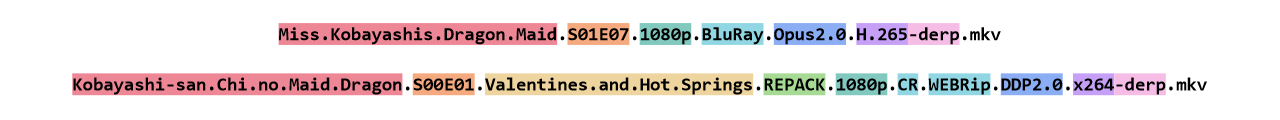
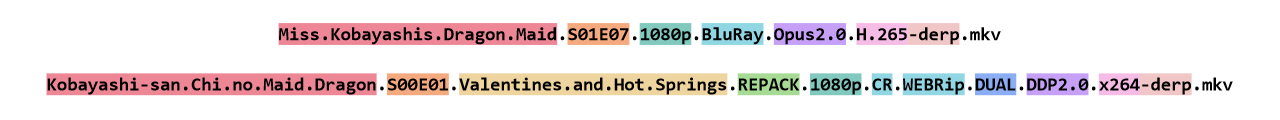
fix(naming): redesign fixes
- Changed good naming example example to use only recommended schemes
- Changed bad naming example image to include absolute numbering and missing series year
- Added dual audio marker to recommended scheme variant 2
- More descriptions
- Reduced number of example names in Nyaa

Changed region(s): [[0.0312, 0.6, 0.9688, 0.8], [0.5938, 0.175, 0.75, 0.375]]

diff --git a/docs/advanced/naming.md b/docs/advanced/naming.md
@@ -16,7 +16,7 @@ This page serves as a guide on the most optimal naming schemes that provide all 
 In general, a good file name should include:
 
 - The full **anime show/series** or **movie title**
-  - If there are multiple versions of the show (e.g. `Hunter x Hunter (1999)` vs. `Hunter x Hunter (2011)`), you must include the year within the title. *Note that you must include the year for all movies*
+  - If there are multiple versions of the series, you must include the year within the title (e.g. [Hunter x Hunter (1999)](https://thetvdb.com/series/hunter-x-hunter) vs. [Hunter x Hunter (2011)](https://thetvdb.com/series/hunter-x-hunter-2011)). *Note that you must include the year for all movies*
   - We recommend using names found in databases such as [TheTVDB](https://www.thetvdb.com) (TV series) and [The Movie Database (TMDB)](https://www.themoviedb.org/?language=en-US) (movies)
 - The **season/episode number** (for TV series)
   - For specials, use `S00EXX` for guaranteed automatic parsing and correct identification. *However, it is suggested to add an additional identifier such as including `OVA` or the episode title (i.e. `S00E01 - OVA Title`) to easily differentiate between episodes*
@@ -43,18 +43,21 @@ A bad file name often leaves out important information that may be useful to the
 These naming schemes are **bad** as they:
 
 Do not include the [type of release](/guides/quality/#types-of-releases) and [where it is sourced from](/guides/quality/#blu-ray-vs-web)
-:   - File 2 does not list the video codec/resolution, audio codec, "Blu-ray/WEB" source, dual audio, etc.
+:   - It can be harder to determine which release is the better one
+    - File 2 does not list the video codec/resolution, audio codec, "Blu-ray/WEB" source, dual audio, etc.
 
 May be too long in length
-:   - File 2 includes episode chapters in the file name, which results in a long file name
+:   - Many programs do not support file paths longer than 256 characters
+    - File 2 includes episode chapters in the file name, totaling 159 characters alone
 
-Use an invalid naming scheme
-:   - File 1 separates the season and episode number (`S2 - 08`). *As a result, some programs may incorrectly parse this as `S01E08`*
+Use an inefficient/invalid naming scheme
+:   - File 1 uses absolute numbering for episodes. *We recommend using the `SXXEXX` format instead*
     - File 3 uses brackets to hold the season and episode number (`[S02,E00]`). *As a result, some programs may incorrectly parse this as a release group*
 
-Alter or uses a condensed show title
-:   - File 3 uses the incorrect order for the show title (`From Me to You Kimi Ni Todoke` instead of `Kimi ni Todoke - From Me to You`)
-    - File 4 uses a condensed show title (`Masamune` instead of `Masamune-kun's Revenge` or `Masamune-kun no Revenge`)
+Alter or uses an incorrect title
+:   - Some programs may fetch incorrect title metadata
+    - File 3 uses the incorrect order for the show title (`From Me to You Kimi Ni Todoke` instead of `Kimi ni Todoke - From Me to You`)
+    - File 4 does not include the show year. *As a result, media servers may fetch incorrect metadata ([JoJo's Bizarre Adventure](https://thetvdb.com/series/jojos-bizarre-adventure) is detected instead of [JoJo's Bizarre Adventure (2012)](https://thetvdb.com/series/jojos-bizarre-adventure-2012))*
 
 Using good naming schemes, it could look like the following:
 
@@ -76,7 +79,7 @@ Spaces and special characters (i.e. apostrophes `'`, commas `,`) should be repla
 :   The full show/series or movie title. *We recommend using names found in databases such as [TheTVDB](https://www.thetvdb.com) (TV series) and [The Movie Database (TMDB)](https://www.themoviedb.org/?language=en-US) (movies). This can be in English or romanized Japanese*
 
     !!!warning
-    If there are multiple versions (e.g. `Hunter x Hunter (1999)` vs. `Hunter x Hunter (2011)`), you must include the year within the title. *For movies, this should always be included*
+    If there are multiple versions of the series, you must include the year within the title (e.g. [`Hunter.x.Hunter.1999`](https://thetvdb.com/series/hunter-x-hunter) vs. [`Hunter.x.Hunter.2011`](https://thetvdb.com/series/hunter-x-hunter-2011)). *For movies, this should always be included*
     !!!
 
 ![#f5a97f](https://placehold.co/14x14/f5a97f/f5a97f.png) Season/episode number
@@ -89,8 +92,8 @@ Spaces and special characters (i.e. apostrophes `'`, commas `,`) should be repla
 ![#eed49f](https://placehold.co/14x14/eed49f/eed49f.png) Episode title [!badge variant="success" text="Optional"]
 :   The title of the episode. *We recommend using names found in databases such as [TheTVDB](https://www.thetvdb.com) (TV series) and [The Movie Database (TMDB)](https://www.themoviedb.org/?language=en-US) (movies)*
 
-    !!!info
-    This should generally be skipped for long file names.
+    !!!warning
+    This should generally be skipped to avoid creating file paths larger than 256 characters, which may cause problems with various programs.
     !!!
 
 ![#a6da95](https://placehold.co/14x14/a6da95/a6da95.png) Version number [!badge variant="warning" text="Conditional"]
@@ -106,17 +109,24 @@ Spaces and special characters (i.e. apostrophes `'`, commas `,`) should be repla
     For `WEB` releases, you may also include the source tag (e.g. `AMZN` for Amazon, `DSNP` for Disney+, `NF` for Netflix)
     !!!
 
-![#8aadf4](https://placehold.co/14x14/8aadf4/8aadf4.png) Audio format(s)
+    !!!info
+    For Blu-ray/DVD remuxes, add `Remux` to the end (e.g. `BluRay.Remux` or `DVD.Remux`)
+    !!!
+
+![#8aadf4](https://placehold.co/14x14/8aadf4/8aadf4.png) Dual audio marker [!badge variant="warning" text="Conditional"]
+:   The marker for file using multiple audio languages/tracks
+
+![#c6a0f6](https://placehold.co/14x14/c6a0f6/c6a0f6.png) Audio format(s)
 :   The codec of the file's audio. *We recommend using [MediaInfo](https://mediaarea.net/MediaInfo) to find this information*
 
     !!!info
     If your file includes multiple audio tracks in different codecs, only list the default track's codec
     !!!
 
-![#c6a0f6](https://placehold.co/14x14/c6a0f6/c6a0f6.png) Video format
+![#f5bde6](https://placehold.co/14x14/f5bde6/f5bde6.png) Video format
 :   The codec of the file's video. *We recommend using [MediaInfo](https://mediaarea.net/MediaInfo) to find this information*
 
-![#f5bde6](https://placehold.co/14x14/f5bde6/f5bde6.png) Releaser
+![#f0c6c6](https://placehold.co/14x14/f0c6c6/f0c6c6.png) Releaser
 :   The name of the releaser or release group
 
 +++ :icon-file-code: Variant 2
@@ -130,7 +140,7 @@ Spaces and special characters (i.e. apostrophes `'`, commas `,`) should be repla
 :   The full show/series or movie title. *We recommend using names found in databases such as [TheTVDB](https://www.thetvdb.com) (TV series) and [The Movie Database (TMDB)](https://www.themoviedb.org/?language=en-US) (movies). This can be in English or romanized Japanese*
 
     !!!warning
-    If there are multiple versions (e.g. `Hunter x Hunter (1999)` vs. `Hunter x Hunter (2011)`), you must include the year within the title. *For movies, this should always be included*
+    If there are multiple versions of the series, you must include the year within the title (e.g. [`Hunter x Hunter (1999)`](https://thetvdb.com/series/hunter-x-hunter) vs. [`Hunter x Hunter (2011)`](https://thetvdb.com/series/hunter-x-hunter-2011)). *For movies, this should always be included*
     !!!
 
 ![#eed49f](https://placehold.co/14x14/eed49f/eed49f.png) Season/episode number
@@ -146,8 +156,8 @@ Spaces and special characters (i.e. apostrophes `'`, commas `,`) should be repla
 ![#81c8be](https://placehold.co/14x14/81c8be/81c8be.png) Episode title [!badge variant="success" text="Optional"]
 :   The title of the episode. *We recommend using names found in databases such as [TheTVDB](https://www.thetvdb.com) (TV series) and [The Movie Database (TMDB)](https://www.themoviedb.org/?language=en-US) (movies)*
 
-    !!!info
-    This should generally be skipped for long file names.
+    !!!warning
+    This should generally be skipped to avoid creating file paths larger than 256 characters, which may cause problems with various programs.
     !!!
 
 ![#91d7e3](https://placehold.co/14x14/91d7e3/91d7e3.png) Source type
@@ -183,46 +193,48 @@ Spaces and special characters (i.e. apostrophes `'`, commas `,`) should be repla
 In general, a good folder should:
 
 - List the **season number(s)** (for TV series)
-  - If you are including multiple seasons, these should be separated and named by season (e.g. `Season 1`, `Season 2`, ...)
-  - If a season is split into two cours but stored in a single season (e.g. [86: Eighty Six](https://thetvdb.com/series/eighty-six/seasons/official/1)), include the episode range after the season info (e.g. `86: Eighty Six - S01 (E01-E11)` and `86: Eighty Six - S01 (E12-E23)`)
+  - If you are organizing multiple seasons, these should be separated and named by season (e.g. `Season 1`, `Season 2`, ...)
+  - If a season is split into two cours but stored in a single season (e.g. [86: Eighty Six](https://thetvdb.com/series/eighty-six/seasons/official/1)), include the episode range after the season info (e.g. `86: Eighty Six - S01E01-E11)` and `86: Eighty Six - S01E12-E23)`)
 - Store **specials/OVA episodes** in a separate folder named `Specials`
 - Store **additional content** (creditless OPs/EDs, PVs) in a separate folder named `Extras`
+  - `Extras` is a catch-all folder that automation/media servers completely ignore
   - Do not use folders such as `NC`, `Creditless`, etc.
 - Include the **releaser/group tag**
 
 Examples:
 
 ```text
-Anime Name Season 2 (BD Remux 1080p H.264 FLAC) [Dual Audio] [Group]
-Anime Name (2022) S01 (BD 1080p HEVC Opus) [Dual Audio]-Group
+Anime Name (2022) S01 (BD 1080p HEVC Opus) [Dual Audio] [Group]
 Anime.Name.2022.S01.1080p.AMZN.WEB-DL.DDP2.0.H.264-Group
-Anime Name S02 E01-E24 (BD Remux 1080p x264 8-bit DTS-HD) [Dual-Audio] [Group]
-Anime Name S01 E25-E48 (BD Remux 1080p x264 8-bit DTS-HD) [Dual-Audio] [Group]
-Anime.Name.2022.S01.E01-E11.1080p.BluRay.FLAC2.0.H.265-Group
+Anime Name - S01E01-E24 (BD Remux 1080p x264 8-bit DTS-HD) [Dual Audio] [Group]
 Anime.Name.2022.S01.E12-E23.1080p.BluRay.FLAC2.0.H.265-Group
 ```
 
+!!!info
+For organization, it is recommended to put the group name at the end of folder names to allow for alphabetical sorting on the user's end.
+!!!
+
 ## Nyaa
 
-In general, a Nyaa release should include:
+In general, a good Nyaa release should:
 
-- The same guidelines followed for [folders](#folders)
-- Additional details/aliases at the end of the title for better searching (e.g. alternate show titles, season number, cour number)
+- Follow the same guidelines for [folders](#folders)
+- **Not include mutliple seasons.** These are not supported by automation and cannot be cross-seeded
+  - If you are including a few specials, or the special is important (e.g. finale), you may want to include it in the same torrent. *Otherwise, you should create a separate torrent*
+- Additional aliases at the end of the title for better searching (e.g. alternate show titles, `Season X (SXX)`)
 - A raw link to [MediaInfo](https://mediaarea.net/en/MediaInfo) information
   - For season releases, we recommend using the first episode
 - A link to a [quality comparison](/tutorials/comparison) including the video used in the release
+- A description of what was done or used to create the release
+  - e.g. Video/audio source, typesetting/translation changes, subtitle retiming, artifact fixes, tracks from other releases
 
-Examples:
+Example titles:
 
 ```text
-Anime Name Season 2 (BD 1080p Hi10 Opus) [Dual Audio] [Group] | Alternate Name
-[Group] Anime Name Season 2 (BD Remux 1080p H.264 FLAC) [Dual Audio] | Alternate Name
-Anime Name (2022) S01 (BD 1080p HEVC Opus) [Dual Audio]-Group | Alternate Name
-Anime.Name.2022.S01.1080p.AMZN.WEB-DL.DDP2.0.H.264-Group | Alternate Name
-[Group] Anime Name S02 E01-E24 (BD Remux 1080p x264 8-bit DTS-HD) [Dual-Audio] | Alternate Name
-[Group] Anime Name S01 E25-E48 (BD Remux 1080p x264 8-bit DTS-HD) [Dual-Audio] | Alternate Name
-Anime.Name.2022.S01.E01-E11.1080p.BluRay.FLAC2.0.H.265-Group | Alternate Name
-Anime.Name.2022.S01.E12-E23.1080p.BluRay.FLAC2.0.H.265-Group | Alternate Name
+[Group] Anime Name (2022) - Season 1 (S01) (BD 1080p HEVC Opus) [Dual Audio] | Alias 1 | Alias 2
+Anime.Name.2022.S01.1080p.AMZN.WEB-DL.DUAL.DDP2.0.H.264-Group | Alias 1 | Alias 2
+[Group] Anime Name - S01E01-E24 (BD Remux 1080p x264 8-bit DTS-HD) [Dual Audio] | Alias 1 | Alias 2
+Anime.Name.2022.S01.1080p.BluRay.REMUX.AVC.FLAC.2.0-Group | Alias 1 | Alias 2
 ```
 
 ## Recommended Tools
